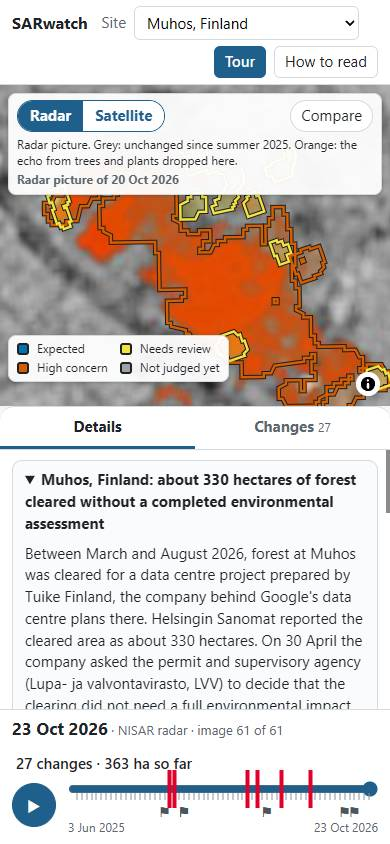
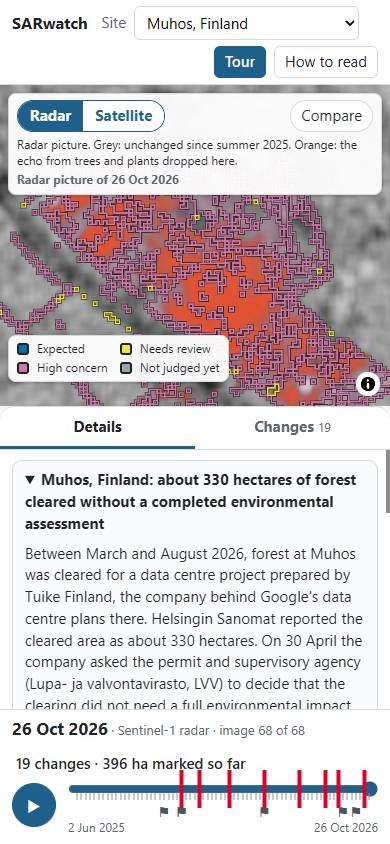
Main view on the final Muhos data: marks distinct from the radar tint, play starts near the story
High concern moves from orange to Okabe-Ito reddish purple, so it never matches the
orange-red radar tint; outlines are thinner at the site overview. Play from the end starts
four snapshots before the first change; the total says marked so far. Screenshots refreshed.

diff --git a/app/js/timeline.js b/app/js/timeline.js
@@ -5,6 +5,7 @@ const PLAY_SECONDS = 12; // time to play through all snapshots (each step lasts 
 const MIN_STEP_MS = 250;
 const MAX_STEP_MS = 900;
 const MAX_TICKS = 80; // with more snapshots the plain ticks would merge into a solid block, so only the red bars stay
+const LEAD_IN = 4; // play from the end starts this many snapshots before the first change, not at the (often quiet) first one
 
 /** The site's snapshots, or (older data) the distinct change dates plus both ends of its time range. */
 function snapshotsOf(site, features) {
@@ -27,6 +28,7 @@ export function createTimeline({ onDate, onPlay }) {
   let playing = false;
   let timer = 0;
   let stopAt = 0; // slider value where playing stops
+  let playFrom = 0; // where play starts when the slider is at the end
 
   const index = () => Number(slider.value);
   const pct = (i) => (stops.length > 1 ? (i / (stops.length - 1)) * 100 : 50);
@@ -67,7 +69,7 @@ export function createTimeline({ onDate, onPlay }) {
   const stepMs = () => Math.min(MAX_STEP_MS, Math.max(MIN_STEP_MS, (PLAY_SECONDS * 1000) / stops.length));
 
   function play(until = stops.length - 1) {
-    if (index() >= until) slider.value = 0;
+    if (index() >= until) slider.value = playFrom;
     stopAt = until;
     playing = true;
     onPlay?.();
@@ -86,6 +88,7 @@ export function createTimeline({ onDate, onPlay }) {
   /** Red bars (where changes first show) and, when there are few snapshots, plain ticks. */
   function drawTicks(features) {
     const counts = new Map(); // snapshot index -> number of changes first seen there
+    playFrom = 0;
     for (const f of features) {
       let i = stops.findIndex((s) => s.date >= f.properties.first_date); // between two snapshots: the next one
       if (i < 0) i = stops.length - 1;
@@ -95,6 +98,7 @@ export function createTimeline({ onDate, onPlay }) {
     if (stops.length <= MAX_TICKS) {
       stops.forEach((s, i) => !counts.has(i) && nodes.push(h("span", { class: "tick", style: `left:${pct(i)}%` })));
     }
+    if (counts.size) playFrom = Math.max(0, Math.min(...counts.keys()) - LEAD_IN);
     for (const [i, n] of [...counts].sort((x, y) => x[0] - y[0])) {
       const text = `${formatDate(stops[i].date)}: ${n} new ${n === 1 ? "change" : "changes"}`;
       nodes.push(

diff --git a/app/js/map.js b/app/js/map.js
@@ -28,6 +28,8 @@ const EMPTY = { type: "FeatureCollection", features: [] };
 const DATE_LAYERS = ["changes-fill", "changes-casing", "changes-line"];
 const FLASH_MS = 1600; // how long a newly appeared outline glows
 const NONE = ["==", ["get", "id"], ""];
+// Thin outlines at the site overview (detailed shapes with holes would hide the picture), full width from zoom 15.
+const byZoom = (atSite, close) => ["interpolate", ["linear"], ["zoom"], 12, atSite, 15, close];
 
 export function createChangeMap(container, { onSelect, bounds }) {
   // No rotation or tilt: the before/after divider is a vertical line on screen and on the picture alike.
@@ -49,8 +51,8 @@ export function createChangeMap(container, { onSelect, bounds }) {
     map.on("load", () => {
       map.addSource("changes", { type: "geojson", data: EMPTY });
       map.addLayer({ id: "changes-fill", type: "fill", source: "changes", paint: { "fill-color": verdictColor, "fill-opacity": 0.3 } });
-      map.addLayer({ id: "changes-casing", type: "line", source: "changes", paint: { "line-color": "#1b1b1b", "line-width": 4.5 } });
-      map.addLayer({ id: "changes-line", type: "line", source: "changes", paint: { "line-color": verdictColor, "line-width": 2.5 } });
+      map.addLayer({ id: "changes-casing", type: "line", source: "changes", paint: { "line-color": "#1b1b1b", "line-width": byZoom(2.6, 4.5) } });
+      map.addLayer({ id: "changes-line", type: "line", source: "changes", paint: { "line-color": verdictColor, "line-width": byZoom(1.4, 2.5) } });
       map.addLayer({
         id: "changes-flash", type: "line", source: "changes", filter: NONE,
         paint: { "line-color": "#ffffff", "line-width": 4, "line-blur": 2, "line-opacity": 0 },

diff --git a/app/js/format.js b/app/js/format.js
@@ -6,11 +6,11 @@ export const APP = {
   pitch: "Radar satellites see the ground through clouds and at night. This map shows where the land changed, and which changes deserve a second look.",
 };
 
-// Okabe-Ito colorblind-safe palette. The map draws a dark casing around each polygon so all three read on both basemaps.
+// Okabe-Ito colorblind-safe palette. The map draws a dark casing around each polygon so all three read on the radar and the photos.
 export const VERDICTS = {
   expected: { label: "Expected", color: "#0072B2" },
   review: { label: "Needs review", color: "#F0E442" },
-  high_concern: { label: "High concern", color: "#D55E00" },
+  high_concern: { label: "High concern", color: "#CC79A7" }, // not orange: radar frames tint lost vegetation orange-red
   none: { label: "Not judged yet", color: "#9AA3A8" },
 };
 export const verdictKey = (verdict) => (Object.hasOwn(VERDICTS, verdict) ? verdict : "none"); // null or unknown = not judged yet
@@ -51,7 +51,7 @@ export function formatArea(ha) {
 }
 
 export function runningTotal(count, ha) {
-  return `${count} ${count === 1 ? "change" : "changes"} · ${formatArea(ha)} so far`;
+  return `${count} ${count === 1 ? "change" : "changes"} · ${formatArea(ha)} marked so far`;
 }
 
 // --- tiny DOM builder (text goes through text nodes, so data can never inject HTML) ---
